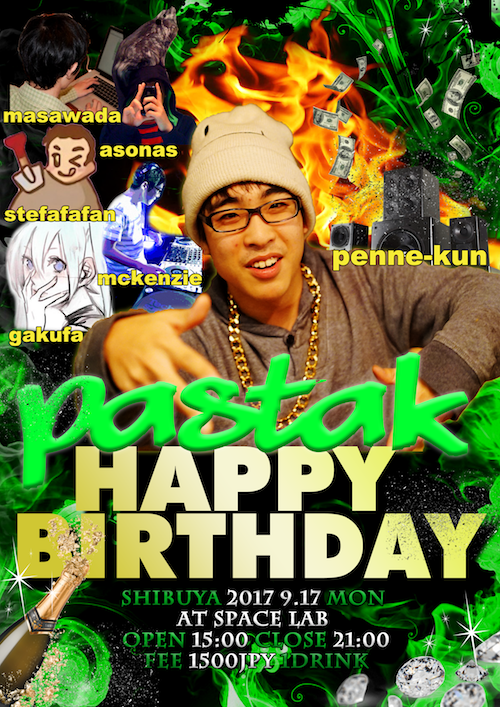
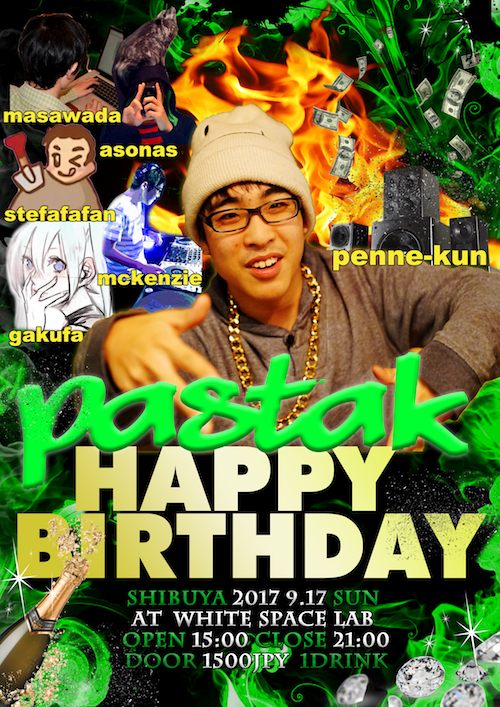
update flyer

Changed region(s): [[0.24, 0.8091, 0.78, 0.9646]]

diff --git a/index.html b/index.html
@@ -144,7 +144,7 @@
     <h2>Flyer</h2>
     <img src='img/flyer.png' style='max-width: 95%;'/>
     <br />
-    <a href='https://drive.google.com/drive/folders/0B0gyk8s3TOQCTGtBMERfYkQzaXc' target='_blank'>Download from here</a><br />
+    <a href='https://drive.google.com/drive/u/1/folders/0B0gyk8s3TOQCREtfcFNVd2IxczA' target='_blank'>Download from here(PNG/PDF)</a><br />
     <a href='https://twitter.com/kanapon_i/status/907515776361390080' target='_blank'>Created by @kanapon_i</a>
     <hr />
     Repository is here: <a href='https://github.com/pastak-anniv/pastak-anniv.github.io' target='_blank'>https://github.com/pastak-anniv/pastak-anniv.github.io</a>
